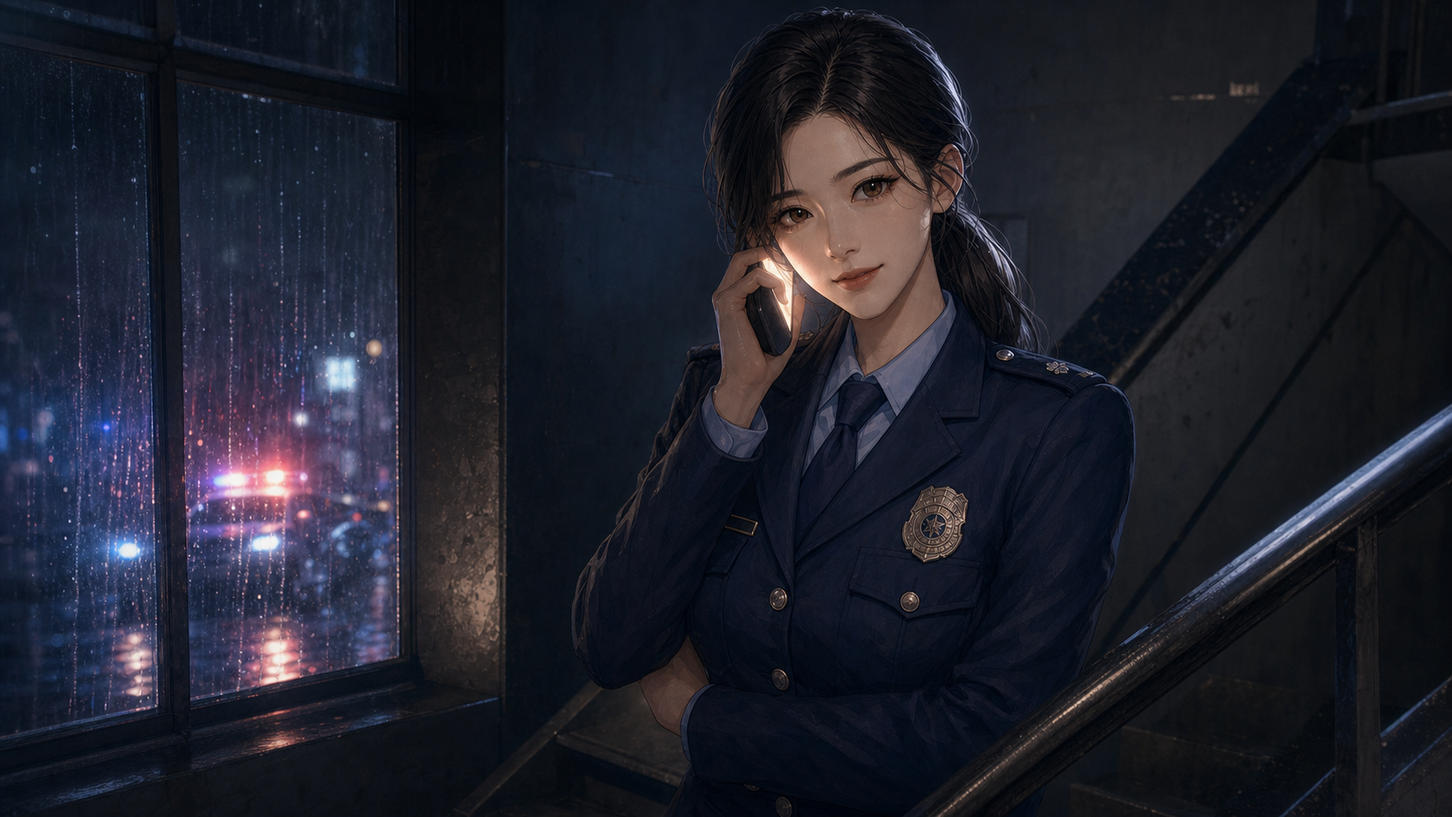
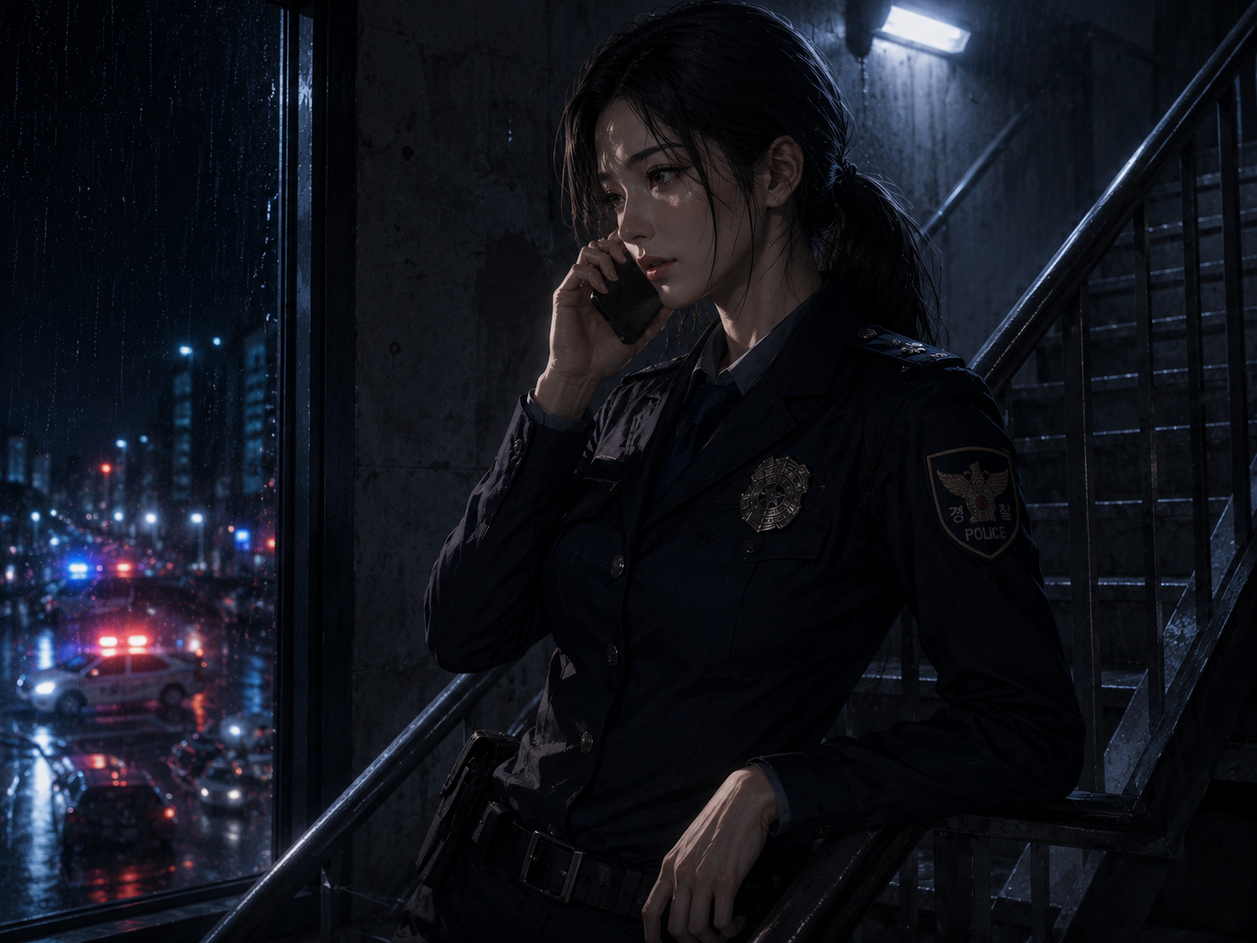
Expand Yujin personal story with new illustrations

diff --git a/js/character_stories.js b/js/character_stories.js
@@ -59,44 +59,49 @@ const SPECIAL={
   ]}
  ],
  '강유진':[
-  {title:'동거인 확인서의 빈칸',min:18,scene:'event-yujin-rain-rescue.png',desc:'개인 번호를 교환한 뒤 유진이 첫 방문 조사 기록의 수정본을 가져왔습니다. 윤세라의 거처와 사건 관계는 정리됐지만, 당신과 세라의 관계를 적는 칸만 비어 있습니다. 수사와 무관하다던 질문을 왜 두 번이나 했는지 이제는 업무 밖에서 물을 수 있습니다.',speaker:'그날 애인이냐고 물은 건 신변 보호 때문이었어요. 적어도 처음에는요. 그런데 왜 대답을 듣기가 싫었는지는… 경찰 보고서에 적을 수가 없네요.',choices:[
+  {title:'동거인 확인서의 빈칸',min:18,scene:'event-yujin-rain-rescue.png',desc:'개인 번호를 교환한 뒤 유진이 비에 젖은 첫 방문 조사 기록의 수정본을 가져왔습니다. 윤세라의 거처와 사건 관계는 정리됐지만, 당신과 세라의 관계를 적는 칸만 비어 있습니다. 수사와 무관하다던 질문을 왜 두 번이나 했는지 이제는 업무 밖에서 물을 수 있습니다.',speaker:'그날 애인이냐고 물은 건 신변 보호 때문이었어요. 적어도 처음에는요. 그런데 왜 대답을 듣기가 싫었는지는… 경찰 보고서에 적을 수가 없네요.',choices:[
    C('support','관계보다 먼저 세 사람의 경계를 직접 정하자고 한다','유진은 신고가 있을 때만 개입하고 세라의 사생활도 조사 기록에서 분리한다',10,13,-7,'good','좋아요. 부르면 가고, 부르지 않은 날에는 기다릴게요. 세라 씨한테도 같은 규칙을 요구하죠.',{}),
    C('lead','세라를 계속 감시해 달라고 부탁한다','안전을 얻는 대신 유진의 관심과 수사가 사적인 생활 안으로 들어온다',4,-3,7,'neutral','업무로 시작한 일이니까 할 수는 있어요. 하지만 내가 정말 세라 씨만 보고 있을 거라고 생각해요?',{}),
    C('avoid','애인이라고 적으면 더 자주 와줄 거냐고 되묻는다','농담처럼 관계의 빈칸을 채우며 유진의 보호 욕구와 질투를 동시에 건드린다',7,1,10,'bad','그런 말 쉽게 하지 마요. 확인할 이유를 만들어 주면… 나는 정말 매일 올 수도 있으니까.',{})
   ]},
-  {title:'내부 비리 제보',min:32,scene:'event-yujin-night-call.png',desc:'유진이 동료의 증거 조작 정황을 발견했습니다. 제보하면 조직에서 고립될 수 있고, 덮으면 승진은 지킬 수 있습니다. 공식 기록에 남기기 전 당신에게 처음 털어놓습니다.',speaker:'정의로운 척하고 싶어서가 아니에요. 내가 침묵하면 피해자는 평생 자기 말을 의심하게 될 거예요.',choices:[
-   C('support','증거를 복사하고 정식 감찰 절차를 함께 준비한다','유진의 판단을 존중하며 현실적인 안전망을 만든다',11,14,-4,'good','무작정 나서라고 하지 않고, 살아남을 방법까지 같이 찾아줘서 고마워요.',{morality:6}),
-   C('lead','내 인맥으로 조용히 상대를 밀어내겠다고 한다','문제를 해결하지만 또 다른 비공식 권력이 된다',0,-7,5,'neutral','비리를 비리로 덮으면 우리가 뭐가 달라져요?',{morality:-5}),
-   C('avoid','조직 일에는 끼어들지 말라고 말린다','유진은 승진을 지키지만 오래 죄책감을 품는다',-10,-10,4,'bad','안전한 선택인 건 알아요. 그래도 당신이 내 편은 아닌 것 같네요.',{guilt:3})
+  {title:'사건기록보다 오래 남은 질문',min:30,scene:'event-yujin-1.png',desc:'야간 사무실에 들른 당신은 유진이 이미 끝난 사건기록을 다시 펼쳐 둔 모습을 봅니다. 당신이 위험한 인물이라서 확인하는 건지, 위험에 빠질 사람이라서 보고 있는 건지 묻자 유진은 서류보다 당신 얼굴을 오래 바라봅니다.',speaker:'사건은 종결됐는데 이상하죠. 기록을 덮으면 당신이 내 담당에서 사라지는 것 같아서… 자꾸 한 줄을 더 찾게 돼요.',choices:[
+   C('depend','“담당이 끝나도 계속 나를 봐줘”라고 솔직히 말한다','유진에게 사건 밖에서도 필요한 사람이 될 자리를 내준다',12,8,8,'neutral','그 말을 허락으로 알아들을 수도 있어요. 그래도… 지금은 모른 척할게요.',{},'depend'),
+   C('boundary','사건기록은 덮고 비번 날에 다시 만나자고 한다','업무상 감시와 사적인 관심을 분리한다',10,14,-6,'good','그럼 다음에는 서류 없이 갈게요. 질문도 경찰이 아니라 내가 하고요.',{},'boundary'),
+   C('complicity','기록에 남기 곤란한 라이벌 정보를 따로 건넨다','둘만 아는 비공식 수사를 시작한다',6,-3,12,'bad','이걸 받으면 당신 사건은 끝나지 않아요. 나한테도, 당신한테도.',{morality:-4},'complicity')
   ]},
-  {title:'반납한 위치추적기',min:46,scene:'event-yujin-riverside-date.png',desc:'사건이 정리된 뒤 유진이 처음 건넸던 위치추적기를 테이블 위에 놓습니다. 돌려주는 행동은 단순한 물건 정리가 아니라 두 사람의 신뢰 방식을 다시 정하는 일입니다.',speaker:'지켜준다는 말로 당신 삶을 확인하려 했어요. 이걸 돌려주면… 그래도 내가 필요할 때 불러줄 거예요?',choices:[
-   C('support','추적기 대신 서로의 비상연락 규칙을 적는다','통제가 아닌 신뢰로 안전을 다시 설계한다',13,15,-10,'good','찾아내는 사람이 아니라, 불러주는 사람이 될게요.',{}),
-   C('lead','추적기는 내가 보관하고 필요할 때만 허락한다','권한의 방향만 바뀌고 관계의 통제는 남는다',-2,-6,7,'neutral','누가 쥐고 있든 통제는 통제예요. 우리가 배운 게 그게 전부인가요?',{}),
-   C('avoid','대답하지 않고 추적기를 버린다','문제는 끝내지만 두려움을 함께 다루지 않는다',-9,-9,5,'bad','물건은 버릴 수 있어도, 왜 그랬는지는 남아 있어요.',{})
-  ]}
-  ,{title:'새벽 두 시의 호출',min:58,scene:'event-yujin-night-call.png',desc:'새벽 두 시, 라이벌의 협박 문자를 받은 당신이 경찰서가 아니라 유진의 개인 번호를 바라봅니다. 유진은 근무 중인데도 첫 진동에 전화를 받았습니다. 당신이 혼자 해결하지 못했다는 사실에 걱정보다 안도하는 자신을 숨기지 못합니다.',speaker:'말해요. 지금 어디예요? …잘했어요. 다른 사람 말고 나한테 전화한 거.',choices:[
-   C('depend','“혼자서는 못 버티겠어. 지금 와줘”라고 매달린다','유진의 구원 욕구를 직접 선택한다',12,9,8,'neutral','그 말 다시 해봐요. 내가 필요하다고. 그러면 어디든 갈게요.',{},'depend'),
-   C('boundary','증거만 전달하고 공식 절차로 만나자고 한다','도움을 청하되 유진 개인에게 종속되지는 않는다',8,13,-4,'good','도망치지 않고 신고해줘서 고마워요. 이번에는 내가 절차를 지킬게요.',{morality:3},'boundary'),
-   C('complicity','순찰 기록에서 내 동선을 지워달라고 부탁한다','보호를 대가로 유진의 원칙을 시험한다',3,-6,11,'bad','이게 잘못인 걸 아는데도… 당신이 잡혀가는 것보단 내가 더러워지는 게 나아요.',{morality:-8,guilt:4},'complicity')
-  ]}
-  ,{title:'나를 부르는 사람',min:70,scene:'event-yujin-rain-rescue.png',desc:'유진은 비상연락망 첫 줄에 자기 이름을 적어둔 종이를 내밉니다. 신고보다 먼저 자신을 부르라는 뜻인지, 가장 위험할 때만 부르라는 뜻인지 묻습니다. 대답은 둘의 관계가 어디까지 위험해질 수 있는지 정하는 첫 문장이 됩니다.',speaker:'나는 누군가에게 필요한 사람이면 버틸 수 있어요. 문제는… 당신이 나 없이도 괜찮아지는 날이 무섭다는 거예요.',choices:[
-   C('depend','평온한 날에도 유진이 없으면 불안하다고 고백한다','서로의 결핍을 숨기지 않는 의존 관계를 택한다',15,9,12,'neutral','괜찮아요. 혼자 괜찮아질 필요 없어요. 내가 계속 필요하게 해줄게요.',{},'depend'),
-   C('boundary','위기에는 부르되 평소의 선택은 각자 지키자고 한다','구원과 일상을 분리하는 관계를 만든다',11,16,-8,'good','부르면 달려갈게요. 부르지 않은 날까지 들여다보지는 않을게요.',{},'boundary'),
-   C('complicity','법보다 서로를 먼저 지키자는 비밀 약속을 한다','연인과 경찰의 선을 함께 지운다',7,-2,15,'bad','그 약속, 나중에 후회해도 못 돌려줘요. 이제 나는 당신 편부터 들 테니까.',{morality:-10},'complicity')
-  ]}
-  ,{title:'증거 보관실의 새벽',min:78,scene:'event-yujin-night-call.png',desc:'유진이 맡은 압수물 속에서 당신 세력을 공격한 인물의 장부가 발견됩니다. 정식 절차를 밟으면 시간이 걸리고, 장부 한 장만 사라지면 당신은 곧바로 반격할 수 있습니다. 유진은 보관실 열쇠를 쥔 채 당신의 대답을 기다립니다.',speaker:'경찰인 나한테는 증거고, 당신한테는 복수할 기회예요. 오늘 여기서 어느 쪽 이름으로 나를 부를 건지 정해요.',choices:[
-   C('depend','복수보다 네가 다치는 게 무섭다며 열쇠를 내려놓게 한다','유진이 지켜주는 사람이 아니라 지켜야 할 사람이 된다',14,12,9,'neutral','그렇게 말하면 내가 더 못 떠나잖아요. 오늘은 장부보다 당신 옆에 있을게요.',{},'depend'),
-   C('boundary','장부를 봉인하고 정식 감찰과 수사를 함께 준비한다','관계와 수사 모두 오래 버틸 수 있는 선을 지킨다',10,16,-7,'good','기다리는 동안 내가 흔들리면 잡아줘요. 이번에는 절차 안에서 끝까지 갈게요.',{morality:5},'boundary'),
-   C('complicity','필요한 한 장만 빼내고 CCTV 기록을 지워달라고 한다','둘만 아는 범죄로 서로의 퇴로를 없앤다',8,-5,17,'bad','이 문을 닫으면 경찰 강유진은 없었던 거예요. 당신 편인 나만 기억해요.',{morality:-12,guilt:6},'complicity')
-  ]}
-  ,{title:'제복을 벗은 사람',min:86,scene:'event-yujin-riverside-date.png',desc:'징계 심사를 앞둔 유진이 제복을 벗어 의자에 걸어둡니다. 누구도 구하지 못하는 날이면 자신에게 남는 게 무엇인지 모르겠다고 합니다. 강한 사람을 연기하던 목소리는 사라지고, 보호받는 쪽에 서는 걸 은근히 즐기는 본심이 드러납니다.',speaker:'내가 먼저 달려가지 않아도 당신이 나를 찾을까요? 아무것도 해결해주지 못하는 날에도요.',choices:[
-   C('depend','오늘은 내가 지킬 테니 아무것도 하지 말고 기대라고 한다','서로 번갈아 무너질 수 있는 강한 의존을 만든다',15,13,10,'neutral','이상하네요. 지켜지는 게 이렇게 편하면… 자꾸 약해지고 싶어질 것 같아요.',{},'depend'),
-   C('boundary','제복과 상관없이 만나되 서로의 삶은 대신 살지 말자고 한다','구원 욕구 밖에서도 남는 애정을 확인한다',12,17,-8,'good','그럼 나도 사건이 없는 날에 연락할게요. 그냥 보고 싶다는 말부터 연습하면서.',{},'boundary'),
-   C('complicity','제복이 없어도 내 세력의 방패가 되면 된다고 한다','공권력 대신 사적인 충성을 새 직업처럼 건넨다',9,-3,16,'bad','경찰이 아니어도 당신을 지킬 수 있다면 됐어요. 대신 이제 내 규칙은 당신 하나예요.',{morality:-8},'complicity')
-  ]}
-  ,{title:'가장 먼저 부르는 이름',min:92,scene:'event-yujin-safehouse-ending.png',desc:'라이벌의 마지막 공격이 예고된 밤, 유진은 안전가옥 열쇠와 사직서를 나란히 놓습니다. 당신을 보호하는 일이 직업인지 사랑인지, 법을 지킨 뒤에도 둘이 남을 수 있는지 이제는 말로 숨길 수 없습니다.',speaker:'둘 다 가질 수 없을지도 몰라요. 그래도 당신이 부르는 이름이 경찰이 아니라 강유진이었으면 해요. 나는 어떤 사람으로 남을까요?',choices:[
-   C('depend','문을 잠그고 오늘 밤은 서로밖에 필요 없다고 말한다','구조와 의존을 두 사람의 생활로 받아들인다',18,12,17,'neutral','좋아요. 내일이 와도 먼저 문을 열지 마요. 당신이 나를 부를 때까지 여기 있을게요.',{},'depend'),
-   C('boundary','열쇠는 나눠 갖고 각자의 자리에서 같은 싸움을 하자고 한다','도움과 자유를 함께 지키는 동등한 연인이 된다',16,19,-12,'good','부르면 갈게요. 하지만 이제 당신이 혼자 서 있는 모습도 사랑할 수 있을 것 같아요.',{},'boundary'),
+  {title:'내부 비리 제보',min:42,scene:'event-yujin-night-call.png',desc:'빗소리가 큰 비상계단에서 유진이 동료의 증거 조작 정황을 털어놓습니다. 제보하면 조직에서 고립될 수 있고, 덮으면 승진은 지킬 수 있습니다. 공식 기록에 남기기 전 유진이 처음 건 전화는 감찰실이 아니라 당신에게였습니다.',speaker:'정의로운 척하고 싶어서가 아니에요. 내가 침묵하면 피해자는 평생 자기 말을 의심하게 될 거예요. 그런데 혼자 들어가기는… 조금 무서워요.',choices:[
+   C('depend','통화가 끝날 때까지 곁에 있겠다며 모든 결정을 함께 하자고 한다','유진은 원칙보다 당신의 존재에 기대어 제보를 시작한다',12,10,7,'neutral','끊지 마요. 당신 목소리가 들리면 내가 틀리지 않았다는 생각이 드니까.',{morality:4},'depend'),
+   C('boundary','증거를 복사하고 정식 감찰 절차와 보호 요청을 준비한다','유진의 판단을 존중하며 현실적인 안전망을 만든다',11,15,-5,'good','무작정 나서라고 하지 않고 살아남을 방법까지 찾아줘서 고마워요.',{morality:6},'boundary'),
+   C('complicity','내 인맥으로 조작한 동료부터 조용히 밀어내겠다고 한다','비리를 다른 비공식 권력으로 덮는다',5,-6,13,'bad','싫다고 해야 하는데… 당신이 내 편을 드는 방식이 왜 이렇게 안심되는지 모르겠어요.',{morality:-7,guilt:3},'complicity')
+  ]},
+  {title:'사진 뒷면의 이름',min:54,scene:'event-yujin-night-3.png',desc:'압수한 사진 더미 한가운데 당신의 최근 동선이 찍힌 사진이 섞여 있었습니다. 유진은 증거 봉투에 넣기 전 사진 뒷면에 발견 시각과 자기 이름을 적습니다. 사건 때문이라기에는 손에 쥔 시간이 너무 깁니다.',speaker:'누가 당신을 보고 있었다는 게 화나는 건지, 내가 먼저 발견하지 못했다는 게 화나는 건지 구분이 안 돼요.',choices:[
+   C('depend','다음부터는 유진이 먼저 찾아내 달라고 부탁한다','위험을 막는 일과 당신을 지켜보는 일을 같은 권한으로 건넨다',13,8,11,'neutral','그러면 숨지 마요. 내가 못 찾는 곳으로 가는 일도 없게 해줘요.',{},'depend'),
+   C('boundary','사진은 증거로 넘기고 귀가 후 안부만 주고받기로 한다','불안을 인정하되 일상을 수사 대상으로 만들지 않는다',10,15,-7,'good','확인하고 싶은 충동이 들면 먼저 물을게요. 대답하지 않을 권리도 당신한테 있고요.',{},'boundary'),
+   C('complicity','사진 속 장소를 역추적해 둘이 먼저 상대를 잡자고 한다','공식 수사보다 빠른 사적인 추적을 택한다',8,-4,15,'bad','좋아요. 대신 오늘부터 당신 동선은 내가 전부 알아야 해요. 놓치면 계획이 무너지니까.',{morality:-8},'complicity')
+  ]},
+  {title:'제복을 정리하는 밤',min:64,scene:'event-yujin-2.png',desc:'감찰 조사를 마친 유진은 텅 빈 탈의실에서 제복을 천천히 벗어 사물함에 겁니다. 늘 누군가를 구하는 경찰이 아니라 징계 결과를 기다리는 한 사람으로 남자, 당신이 자신을 어떻게 볼지 처음으로 두려워합니다.',speaker:'제복을 입고 있으면 적어도 뭘 해야 하는지는 알았어요. 지금은… 당신 앞에서 어떤 얼굴을 해야 하는지도 모르겠네요.',choices:[
+   C('depend','오늘만큼은 내가 지킬 테니 아무것도 하지 말고 기대라고 한다','보호받는 쪽에 서는 안도감을 유진에게 알려준다',14,12,10,'neutral','지켜지는 게 이렇게 편하면… 나 자꾸 약해지고 싶어질지도 몰라요.',{},'depend'),
+   C('boundary','제복과 상관없이 만나되 서로의 삶을 대신 살지는 말자고 한다','구원자 역할 밖에서도 남는 애정을 확인한다',12,17,-7,'good','그럼 사건이 없는 날에도 연락할게요. 그냥 보고 싶다는 말부터 연습하면서.',{},'boundary'),
+   C('complicity','경찰이 아니어도 내 세력의 방패가 되면 된다고 한다','공권력 대신 사적인 충성을 새 직업처럼 건넨다',9,-3,16,'bad','경찰이 아니어도 당신을 지킬 수 있다면 됐어요. 대신 이제 내 규칙은 당신 하나예요.',{morality:-8},'complicity')
+  ]},
+  {title:'병실의 밤샘',min:74,scene:'event-yujin-14.png',desc:'라이벌의 보복으로 병원에 실려 온 뒤 눈을 뜨자 유진이 침대 옆 의자에서 팔짱을 낀 채 잠들어 있습니다. 비번도 아닌 사람이 밤새 자리를 지켰고, 벽에는 “사건은 잊어도 사람은 잊지 않는다”는 유진의 메모가 붙어 있습니다.',speaker:'깼어요? 다행이다. …보고서에는 순찰 중 확인이라고 썼어요. 사실은 당신이 눈을 뜨기 전에 집에 갈 수가 없었어요.',choices:[
+   C('depend','손을 잡고 다시 잠들 때까지 옆에 있어 달라고 한다','당신이 무너질수록 유진이 머물 이유가 선명해진다',15,10,12,'neutral','자요. 눈 뜨면 또 내가 있을게요. 몇 번이든 확인해도 돼요.',{},'depend'),
+   C('boundary','고맙다고 말한 뒤 교대가 끝나면 반드시 쉬러 보내겠다고 한다','돌봄을 받으면서도 유진의 삶까지 소진시키지 않는다',12,17,-8,'good','쫓아내는 말인데 이상하게 안심되네요. 다음에는 쉬고 나서, 내 선택으로 올게요.',{},'boundary'),
+   C('complicity','습격자의 병실 위치를 알아내 달라고 낮게 부탁한다','환자와 경찰이 같은 밤에 복수를 준비한다',9,-5,17,'bad','다친 채로 그런 말을 하면 거절할 수 없잖아요. 주소는 내가 알아올게요. 당신은 여기 있어요.',{morality:-10,guilt:4},'complicity')
+  ]},
+  {title:'매듭을 고치는 손',min:82,scene:'event-yujin-riverside-date.png',desc:'퇴원 뒤 첫 증언을 앞두고 유진이 구겨진 당신의 넥타이를 직접 고쳐 맵니다. 손은 익숙하게 움직이지만 매듭을 놓지 못한 채, 사건이 끝나면 두 사람이 만날 이유도 사라지는지 묻습니다.',speaker:'이 매듭까지 고치면 내 일은 끝나요. 그런데 난 끝내고 싶지 않아요. 사건 없이도 당신 옆에 있을 명분을 하나만 줘요.',choices:[
+   C('depend','명분 대신 유진 없이는 아직 밖에 나가기 어렵다고 고백한다','회복을 서로가 필요한 이유로 바꾼다',15,10,12,'neutral','서두르지 마요. 혼자 괜찮아질 필요도 없어요. 내가 계속 같이 나가면 되니까.',{},'depend'),
+   C('boundary','증언이 끝난 뒤 사건이 아닌 첫 데이트를 약속한다','보호가 아니라 선택으로 다시 만난다',14,18,-8,'good','그 약속은 기록 안 할게요. 잊지 않으려고 확인할 필요도 없을 것 같아요.',{},'boundary'),
+   C('complicity','공식 진술과 다른 이야기는 둘만의 비밀로 남기자고 한다','사건이 끝나도 공유한 거짓말이 둘을 묶는다',10,-3,16,'bad','그럼 끝나지 않겠네요. 우리가 같은 거짓말을 기억하는 동안은.',{morality:-8},'complicity')
+  ]},
+  {title:'기대도 되는 사람',min:88,scene:'event-yujin-5135.png',desc:'당신이 세력과 과거 이야기를 한꺼번에 털어놓다 말을 잇지 못하자 유진은 해결책부터 말하지 않고 품에 안습니다. 자신에게 완전히 기대는 순간을 기다려 온 안도와, 그걸 기뻐하는 자신에 대한 죄책감이 동시에 얼굴에 드러납니다.',speaker:'처음에는 시민을 지키는 일이라고 생각했어요. 그런데 당신이 나를 필요로 할 때마다… 내가 여기 있어야 할 이유가 생기는 게 좋았어요.',choices:[
+   C('depend','유진이 필요하다는 말을 숨기지 않고 더 꽉 안는다','서로 번갈아 무너져도 놓지 않는 강한 의존을 받아들인다',17,12,15,'neutral','그 말 다시 해줘요. 내가 필요하다고. 오늘은 그게 잘못이어도 놓치고 싶지 않아요.',{},'depend'),
+   C('boundary','안긴 채로도 내가 다시 설 때까지 기다려 달라고 한다','위로와 회복을 같은 관계 안에 남긴다',14,19,-9,'good','기대도 돼요. 다시 설 때 손을 놓는 것도 내가 배울게요.',{},'boundary'),
+   C('complicity','둘만 남으면 아무도 진실을 증명하지 못한다고 속삭인다','위로를 서로의 퇴로를 없애는 약속으로 바꾼다',11,-4,19,'bad','그러면 내가 마지막 증인이네요. 당신을 고발할 사람도, 구할 사람도 나 하나뿐이에요.',{morality:-12},'complicity')
+  ]},
+  {title:'가장 먼저 부르는 이름',min:94,scene:'event-yujin-safehouse-ending.png',desc:'라이벌의 마지막 공격이 예고된 밤, 유진은 안전가옥의 CCTV를 전부 켜고 당신을 중앙 화면에 앉힙니다. 열쇠와 사직서와 증거 봉투가 나란히 놓였습니다. 보호, 감시, 사랑 중 무엇을 남길지 더는 직업 뒤에 숨길 수 없습니다.',speaker:'경찰인 나를 부르면 절차대로 지킬게요. 강유진을 부르면… 당신이 나를 필요로 하는 방식부터 먼저 택할 거예요. 어느 이름으로 남을까요?',choices:[
+   C('depend','감시 화면을 끄고 오늘 밤은 서로밖에 필요 없다고 말한다','구조와 의존을 두 사람의 생활로 받아들인다',18,13,18,'neutral','좋아요. 당신이 무너질 때 내가 있고, 내가 흔들릴 때 당신이 있으면 돼요. 먼저 괜찮아지려고 하지 마요.',{},'depend'),
+   C('boundary','열쇠는 나눠 갖고 각자의 자리에서 같은 싸움을 하자고 한다','도움과 자유를 함께 지키는 동등한 연인이 된다',16,20,-12,'good','부르면 갈게요. 하지만 이제 당신이 혼자 서 있는 모습도 사랑할 수 있을 것 같아요.',{},'boundary'),
    C('complicity','사직서를 내고 내 세력의 비밀 책임자가 되라고 한다','법보다 서로를 먼저 두는 완전한 공범을 택한다',14,-4,20,'bad','이제 영장도 보고서도 필요 없네요. 당신이 명령하면 내가 먼저 찾아갈게요.',{morality:-15,guilt:8},'complicity')
   ]}
  ],

diff --git a/js/app.js b/js/app.js
@@ -4456,7 +4456,7 @@ function resolveCharacterStory(choice){
 function characterStoryEndingScene(r,ending){
   if(!r||!ending)return null;
   if(r.name==='강유진')return{
-    dangerous_dependence:'./assets/event-yujin-safehouse-ending.png',
+    dangerous_dependence:'./assets/event-yujin-1111.png',
     accomplice:'./assets/event-yujin-night-call.png',
     equal:'./assets/event-yujin-riverside-date.png'
   }[ending.route]||'./assets/event-yujin-rain-rescue.png';

diff --git a/PROJECT_REFERENCE.md b/PROJECT_REFERENCE.md
@@ -648,11 +648,12 @@ QT_BGM.clearCharacterVoice();
 - 기본 조우: 플레이어가 윤세라의 거처를 결정한 직후 자동 주요 사건으로 발생한다. 세라와 동거 중이면 유진이 주거지 확인을 위해 집에 왔다가 현관문을 연 세라와 처음 마주치며 “동거인입니까, 애인입니까?”라고 관계를 확인한다. 별거라면 세라가 적은 비상 연락처를, 떠나보냈다면 폐작업실의 마지막 목격 기록을 따라 플레이어를 찾는다.
 - 재접촉: 첫 조사에서는 `officialContact=true`인 업무용 명함만 남고 개인 연락처에는 들어오지 않는다. 최초 공격 조건을 다시 요구하지 않으며, 인맥 창에서 월 1회 후속 수사를 진행한다. 사건 밖의 대화와 일반 연락처 조건을 채우면 `officialContact=false`가 되고 개인 번호와 친구 관계가 열린다.
 - 개별 시스템: **구원 강박**
-- 핵심 성향: 처음에는 직업상 플레이어를 보호한다. 반복 공격과 도움 요청을 겪으며 자신이 없으면 플레이어가 무너질 것이라는 확신이 생길수록 구조자 역할과 과잉보호에 끌린다.
-- 개인 스토리: 8장. `동거인 확인서의 빈칸 → 내부 비리 제보 → 반납한 위치추적기 → 새벽 두 시의 호출 → 나를 부르는 사람 → 증거 보관실의 새벽 → 제복을 벗은 사람 → 가장 먼저 부르는 이름`
+- 핵심 성향: 처음에는 직업상 플레이어를 보호한다. 사건이 끝난 뒤에도 기록을 다시 펼치고, 플레이어가 무너질 때 자신이 필요해지는 것에 안도하면서 보호는 사적인 의존으로 변한다. 반대로 플레이어가 유진을 쉬게 하고 보호받는 자리에 세우면, 유진도 제복과 구원자 역할 밖에서 사랑받는 법을 배운다.
+- 개인 스토리: 9장. `동거인 확인서의 빈칸 → 사건기록보다 오래 남은 질문 → 내부 비리 제보 → 사진 뒷면의 이름 → 제복을 정리하는 밤 → 병실의 밤샘 → 매듭을 고치는 손 → 기대도 되는 사람 → 가장 먼저 부르는 이름`
+- 컷신 흐름: 첫 조사(`event-yujin-rain-rescue.png`)에서 사건기록·야간 통화·압수 사진·제복을 벗는 순간으로 이어지고, 병실 밤샘과 넥타이 매듭을 거쳐 포옹과 안전가옥의 최종 선택으로 끝난다. 위험한 의존 결말에는 유진의 내면 독백이 들어간 `event-yujin-1111.png`를 사용한다.
 - 결말 축: 위험한 의존(`dangerous_dependence`), 제복 안의 공범(`accomplice`), 경계를 지킨 대등한 순애(`equal`)
 - 세력/정의 사건과 연결되며 위험한 3인 세트의 구성원이다.
-- 대표 컷신: `event-yujin-rain-rescue.png`
+- 대표 컷신: `event-yujin-rain-rescue.png`, `event-yujin-14.png`, `event-yujin-5135.png`, `event-yujin-1111.png`
 
 #### 윤세라
 
